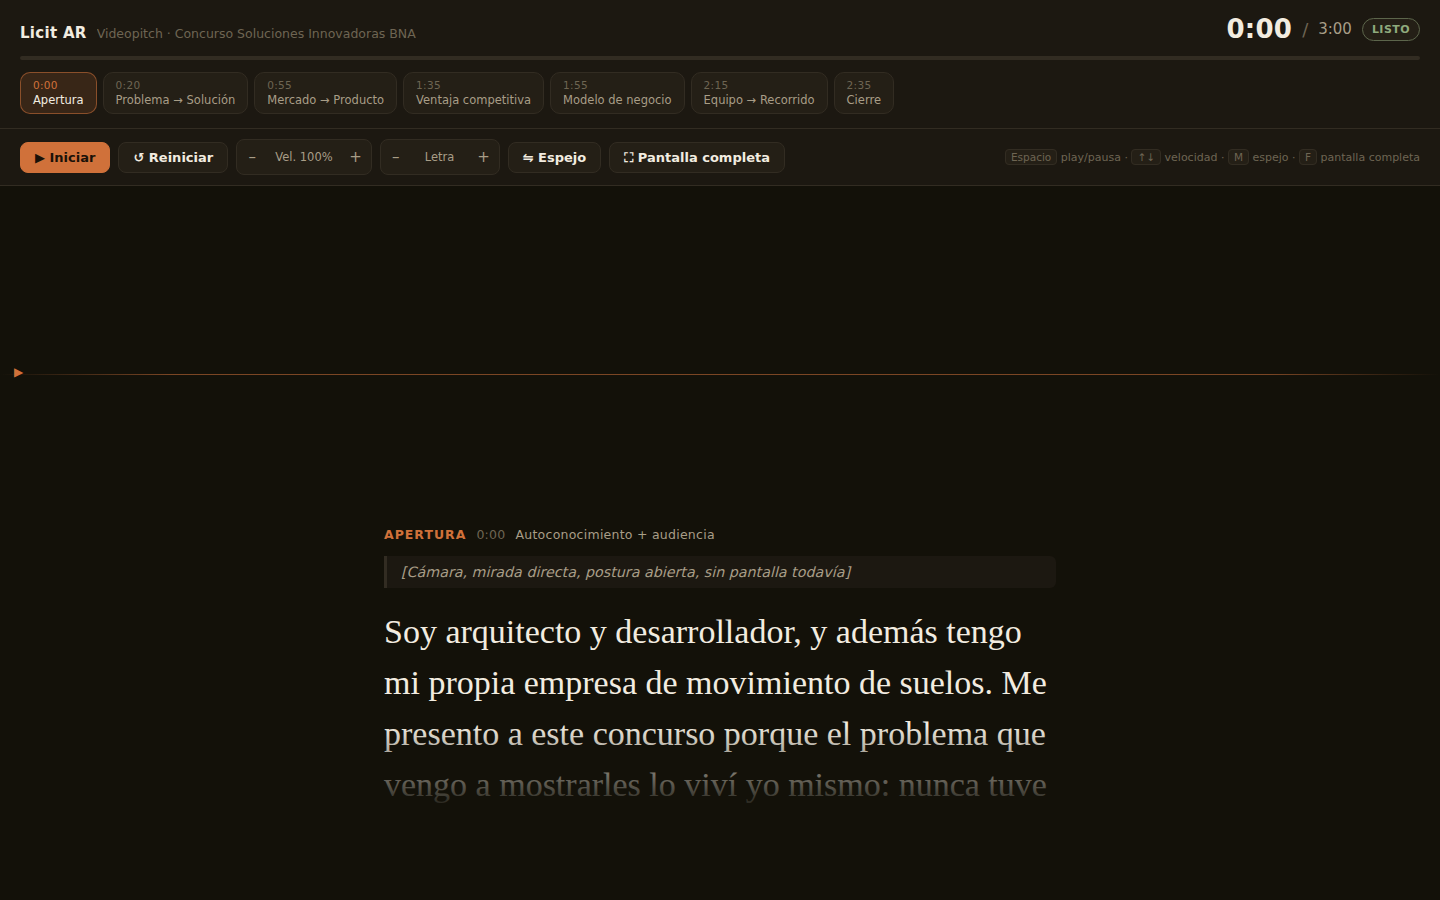
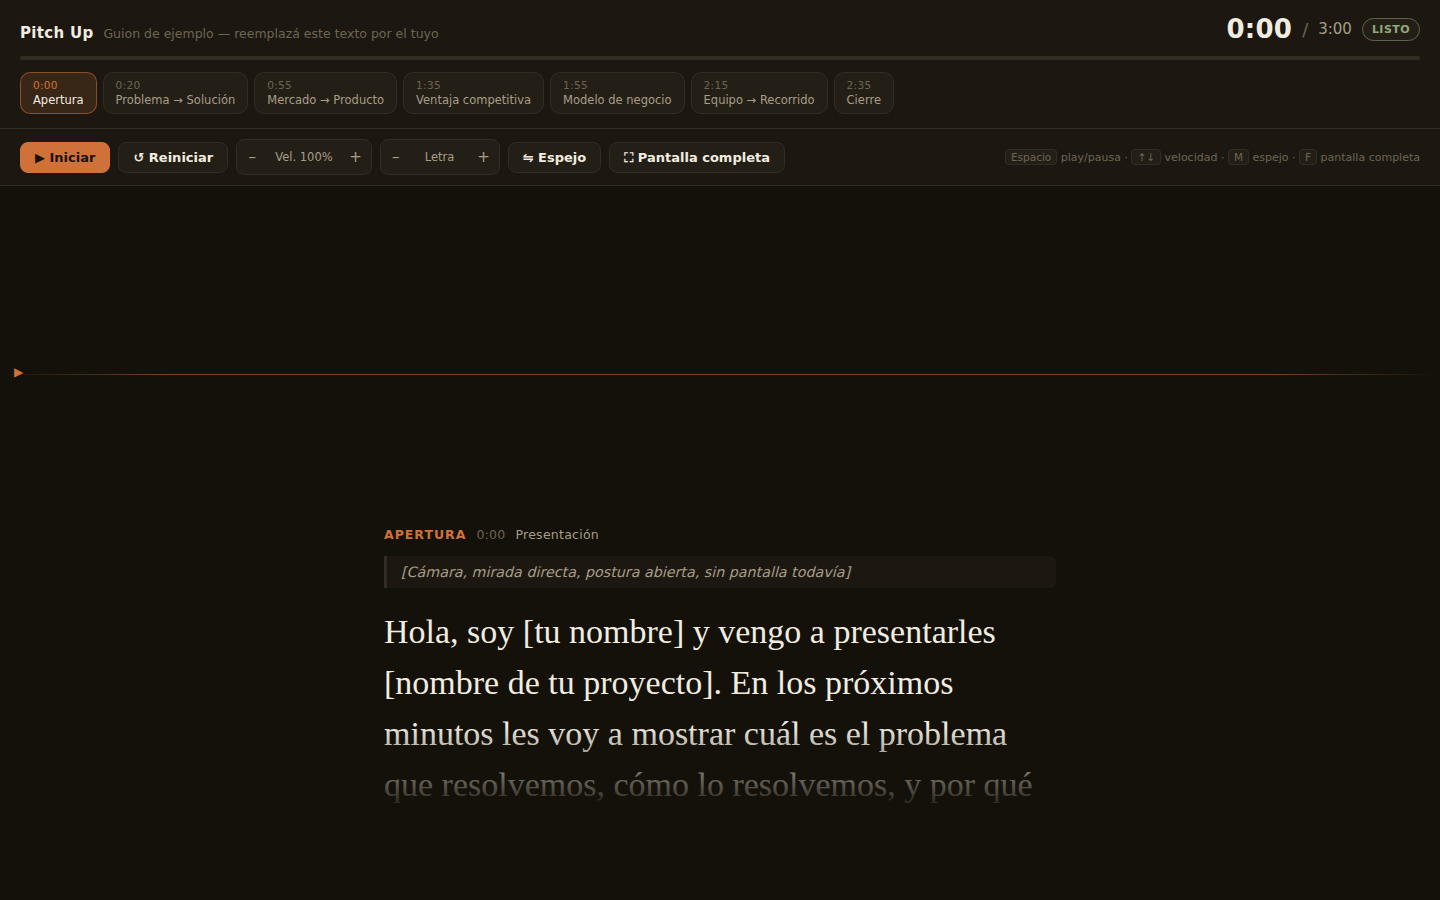
Genericize sample script and remove project-specific references
Replace the Licit AR / BNA contest script with a generic placeholder
template so the tool has no third-party or personal data baked in.

diff --git a/index.html b/index.html
@@ -3,7 +3,7 @@
 <head>
 <meta charset="utf-8">
 <meta name="viewport" content="width=device-width, initial-scale=1">
-<title>Licit AR — Teleprompter de pitch</title>
+<title>Pitch Up — Teleprompter de pitch</title>
 <style>
   :root {
     --bg: #131109;
@@ -396,8 +396,8 @@
 <header>
   <div class="header-top">
     <div class="title-block">
-      <h1>Licit AR</h1>
-      <span class="subtitle">Videopitch · Concurso Soluciones Innovadoras BNA</span>
+      <h1>Pitch Up</h1>
+      <span class="subtitle">Guion de ejemplo — reemplazá este texto por el tuyo</span>
     </div>
     <div class="clock-block">
       <span class="elapsed" id="elapsed">0:00</span>
@@ -441,53 +441,53 @@
     <div class="script">
 
       <section data-time="0" data-label="Apertura">
-        <div class="eyebrow">Apertura <span class="eyebrow-time">0:00</span><span class="eyebrow-sub">Autoconocimiento + audiencia</span></div>
+        <div class="eyebrow">Apertura <span class="eyebrow-time">0:00</span><span class="eyebrow-sub">Presentación</span></div>
         <p class="cue">[Cámara, mirada directa, postura abierta, sin pantalla todavía]</p>
-        <p class="line">Soy arquitecto y desarrollador, y además tengo mi propia empresa de movimiento de suelos. Me presento a este concurso porque el problema que vengo a mostrarles lo viví yo mismo: nunca tuve una forma confiable de saber cuánto me costaba realmente mi trabajo a la hora de armar una oferta para una licitación pública.</p>
-        <p class="note">Nota vocal: bajá el ritmo en "lo viví yo mismo" — es el momento de conexión genuina con el jurado, no lo apures.</p>
+        <p class="line">Hola, soy [tu nombre] y vengo a presentarles [nombre de tu proyecto]. En los próximos minutos les voy a mostrar cuál es el problema que resolvemos, cómo lo resolvemos, y por qué vale la pena apostar por esta idea.</p>
+        <p class="note">Nota vocal: este es el momento de conexión con la audiencia — hablá despacio y mirá a cámara, no lo apures.</p>
       </section>
 
       <section data-time="20" data-label="Problema → Solución">
         <div class="eyebrow">Desarrollo <span class="eyebrow-time">0:20</span><span class="eyebrow-sub">Problema → Solución</span></div>
         <p class="cue">[Podés seguir en cámara o cortar a pantalla ya acá]</p>
-        <p class="line">Armar el precio de una oferta para una licitación de obra vial implica cruzar a mano más de veinte variables en una planilla de Excel: costos indirectos, seguros, inflación, costo financiero, impuestos. Un solo error de fórmula cambia el precio final, y una vez presentada la oferta ya no hay vuelta atrás.</p>
-        <p class="line">Por eso desarrollé Licit AR: una calculadora web que reemplaza esa planilla por una simulación en tiempo real. Cargás el costo directo de la obra y calcula al instante el coeficiente K bajo tres escenarios: Agresivo, Óptimo y Protegido.</p>
+        <p class="line">Hoy, [describí quién sufre el problema] enfrenta [describí el problema concreto]. Esto genera [consecuencia del problema: tiempo perdido, errores, costos, etc.].</p>
+        <p class="line">Por eso desarrollamos [nombre del proyecto]: [explicá en una o dos frases qué hace tu solución y cómo resuelve ese problema].</p>
       </section>
 
       <section data-time="55" data-label="Mercado → Producto">
         <div class="eyebrow">Desarrollo <span class="eyebrow-time">0:55</span><span class="eyebrow-sub">Mercado → Producto</span></div>
         <p class="cue">[Pantalla compartida, demo breve y pausada]</p>
-        <p class="line">El mercado son las pymes constructoras y estudios de costos de toda la Argentina, que hoy quedan afuera de las herramientas de alta gama por precio y complejidad.</p>
-        <p class="line">Mirá el producto en acción: hago clic en cualquiera de los veinte rubros...</p>
-        <p class="cue">[clic, se abre el panel]</p>
-        <p class="line">...y se abre la fórmula exacta, el valor en pesos por escenario y la explicación del concepto. Todo auditable, nada de caja negra. También simula el acopio preventivo de materiales, como Hormigón H-30, y su efecto real en bajar el costo financiero. Al final, exporta todo a Excel con fórmulas vivas, listo para el pliego.</p>
+        <p class="line">El mercado al que apuntamos es [describí tu mercado objetivo: quiénes son, cuántos son, dónde están].</p>
+        <p class="line">Mirá el producto en acción: [describí el primer paso de tu demo]...</p>
+        <p class="cue">[clic, mostrás la función clave]</p>
+        <p class="line">...y acá pasa [describí el resultado o el efecto que más impacta de tu producto]. Esto es lo que nos diferencia de hacerlo a mano o con herramientas genéricas.</p>
       </section>
 
       <section data-time="95" data-label="Ventaja competitiva">
         <div class="eyebrow">Desarrollo <span class="eyebrow-time">1:35</span><span class="eyebrow-sub">Ventaja competitiva → Competencia</span></div>
         <p class="cue">[Volvé a cámara]</p>
-        <p class="line">Hoy esto se resuelve con planillas de Excel frágiles y difíciles de auditar, o con sistemas de gestión de obra pensados para administrar el contrato ya adjudicado, no para simular la oferta antes de presentarse. Licit AR ataca exactamente ese momento previo, donde hoy no hay una herramienta dedicada.</p>
+        <p class="line">Hoy esto se resuelve con [cómo lo resuelve la competencia o el método actual], que tiene el problema de [su limitación principal]. Nosotros atacamos ese punto exacto, con [tu diferencial concreto].</p>
       </section>
 
       <section data-time="115" data-label="Modelo de negocio">
         <div class="eyebrow">Desarrollo <span class="eyebrow-time">1:55</span><span class="eyebrow-sub">Modelo de negocio → Clientes</span></div>
-        <p class="line">El modelo es una suscripción accesible para estudios de costos y constructoras — B2B, pensado para que una pyme lo pague sin que le rompa el presupuesto, algo que hoy no existe en este nicho.</p>
+        <p class="line">El modelo de negocio es [cómo generás ingresos: suscripción, comisión, licencia, etc.], pensado para [tipo de cliente que paga].</p>
       </section>
 
       <section data-time="135" data-label="Equipo → Recorrido">
         <div class="eyebrow">Desarrollo <span class="eyebrow-time">2:15</span><span class="eyebrow-sub">Equipo → Recorrido</span></div>
         <p class="cue">[Cámara, tono más personal]</p>
-        <p class="line">Lo vengo desarrollando hace cinco meses, y no arrancó como un proyecto abstracto: arrancó porque yo mismo, con mi empresa de movimiento de suelos, necesitaba esta herramienta para mis propias ofertas. Cada función que tiene la app la probé primero conmigo, y después con un estudio de costos y una constructora local, que validaron los cálculos contra sus propias planillas con un 90% de coincidencia.</p>
+        <p class="line">Lo venimos desarrollando desde [hace cuánto tiempo], y arrancó porque [por qué empezaste este proyecto, qué te llevó a hacerlo]. [Contá brevemente algún hito de validación: usuarios, pruebas piloto, feedback recibido].</p>
       </section>
 
       <section data-time="155" data-label="Cierre">
         <div class="eyebrow">Cierre <span class="eyebrow-time">2:35</span><span class="eyebrow-sub">Pedido + cierre entusiasta</span></div>
         <p class="cue">[Cámara, energía arriba, mirada directa, no cortes a pantalla acá]</p>
-        <p class="line">Por eso le pido al jurado del BNA su apoyo con el premio en dinero: no para guardarlo, sino para escalar Licit AR, primero a nivel provincial y después a todo el país, llevando esta misma rigurosidad técnica a cada pyme constructora que hoy arma su oferta a ciegas. Gracias por su tiempo.</p>
+        <p class="line">Por eso les pido [tu pedido concreto: inversión, premio, mentoría, apoyo puntual], para poder [qué vas a lograr con eso: escalar, validar, crecer]. Gracias por su tiempo.</p>
       </section>
 
       <section data-time="180" data-label="Fin">
-        <p class="the-end">— fin del guion · 3:00 —</p>
+        <p class="the-end">— fin del guion de ejemplo · reemplazá cada sección con tu contenido —</p>
       </section>
 
     </div>

diff --git a/README.md b/README.md
@@ -1,20 +1,21 @@
 # Pitch Up 🎬
 
-Teleprompter web para grabar videopitches de concursos: scroll automático, control de velocidad, modo espejo, y un indicador de ritmo que compara tu avance real contra los tiempos objetivo de cada sección del guion.
+Teleprompter web para grabar videopitches: scroll automático, control de velocidad, modo espejo, y un indicador de ritmo que compara tu avance real contra los tiempos objetivo de cada sección del guion.
 
-Nació como herramienta para grabar el videopitch de [Licit AR](https://github.com/Lucho-code/Licit_AR) en el Concurso Soluciones Innovadoras BNA, con el guion de esa presentación ya cargado como ejemplo.
+Un solo archivo HTML, sin dependencias ni build — abrilo en el navegador y listo.
 
 ![Captura de Pitch Up](assets/screenshot.png)
 
 ## Características
 
 - **Scroll automático** del guion, con velocidad ajustable a tu ritmo de lectura.
-- **Auditoría por rubro visual**: acotaciones de cámara/pantalla diferenciadas del texto que se lee en voz alta.
+- **Acotaciones de cámara diferenciadas** del texto que se lee en voz alta.
 - **Indicador de ritmo** ("En horario" / "Adelantado" / "Atrasado") que compara tu posición real de scroll contra el tiempo transcurrido.
 - **Navegación por secciones**: chips arriba de la pantalla para saltar a cualquier bloque del guion y practicarlo por partes.
 - **Modo espejo**, para usar con un vidrio de teleprompter físico.
 - **Pantalla completa** para grabar sin distracciones.
-- Un solo archivo HTML, sin dependencias ni build: funciona abriéndolo directo en el navegador.
+
+El guion que trae por defecto es una **plantilla de ejemplo** (Apertura, Problema → Solución, Mercado → Producto, Ventaja competitiva, Modelo de negocio, Equipo → Recorrido, Cierre) con placeholders entre corchetes — pensada para reemplazar por tu propio contenido antes de grabar.
 
 ## Instalación y uso
 
@@ -44,12 +45,13 @@ python3 -m http.server 8000
 
 ## Cómo usarlo para grabar
 
-1. Ubicá la pantalla con Pitch Up justo al lado de (o superpuesta a) la cámara que va a grabar.
-2. Presioná **▶ Iniciar** para arrancar el scroll automático.
-3. Ajustá la **velocidad** (`–` / `+`, o `↑` `↓` del teclado) hasta encontrar tu ritmo natural de lectura.
-4. Mirá el **indicador de ritmo** arriba a la derecha: te avisa en vivo si vas en horario respecto al guion.
-5. Los bloques con fondo oscuro e itálica son **acotaciones de cámara** (ej. "[Cámara, mirada directa]") — no se leen en voz alta, son indicaciones de puesta en escena.
-6. Usá los **chips de sección** para practicar un bloque puntual sin tener que rebobinar todo el guion.
+1. Reemplazá el guion de ejemplo por el tuyo (ver sección siguiente).
+2. Ubicá la pantalla con Pitch Up justo al lado de (o superpuesta a) la cámara que va a grabar.
+3. Presioná **▶ Iniciar** para arrancar el scroll automático.
+4. Ajustá la **velocidad** (`–` / `+`, o `↑` `↓` del teclado) hasta encontrar tu ritmo natural de lectura.
+5. Mirá el **indicador de ritmo** arriba a la derecha: te avisa en vivo si vas en horario respecto al guion.
+6. Los bloques con fondo oscuro e itálica son **acotaciones de cámara** (ej. "[Cámara, mirada directa]") — no se leen en voz alta, son indicaciones de puesta en escena.
+7. Usá los **chips de sección** para practicar un bloque puntual sin tener que rebobinar todo el guion.
 
 ### Atajos de teclado
 